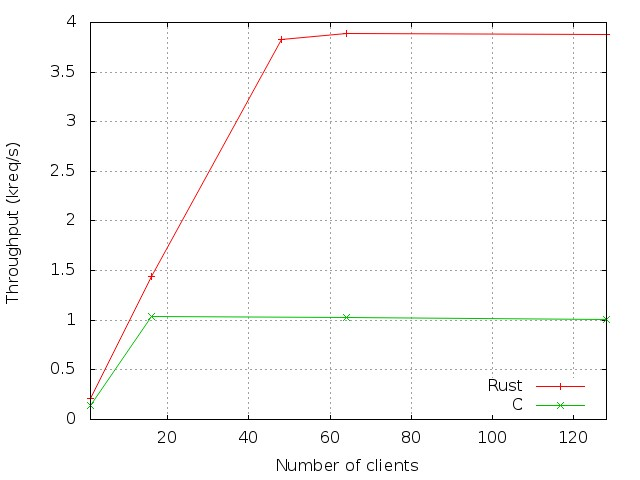
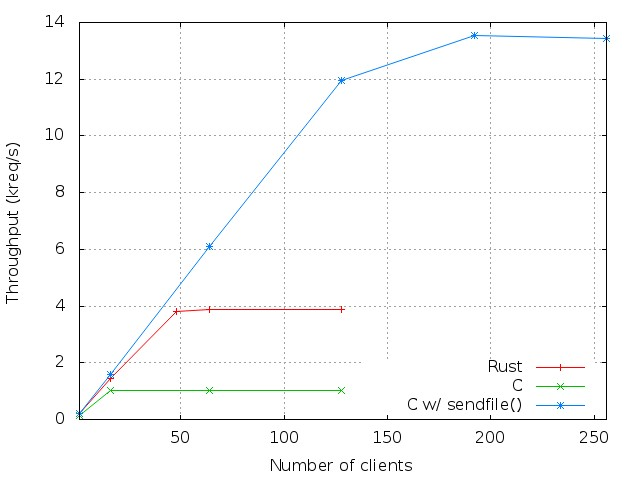
sendifle figure for 100k

diff --git a/evaluation/README.md b/evaluation/README.md
@@ -71,7 +71,7 @@ We observe that the performance of the Rust implementation is better than the C 
 We run one experiment where each thread of the pool of threads of the C implementation calls *accept()*. We notice the peak throughput remains the same.
 
 We run the Linux profiler, *perf*, on both servers.
-We observe that the C server spends 45% of its cycle in the kernel function *__copy_user_nocache*. This means it spends the majority of its time copying  We run an experiment where we replace the calls to read() the file and write() to the socket by a single call to the *sendfile()* system call. We observe an important performance gain: the throughput with 256 clients is 13.4kreq/s, instead of 1kreq/s for the base C implementation or 3.8kreq/s for the Rust implementation.
+We observe that the C server spends 45% of its cycle in the kernel function *__copy_user_nocache*. This means it spends the majority of its time copying  We run experiments where we replace the calls to read() the file and write() to the socket by a single call to the *sendfile()* system call. We observe an important performance gain: the throughput with 256 clients is 13.4kreq/s, instead of 1kreq/s for the base C implementation or 3.8kreq/s for the Rust implementation. Detailed results are shown in the above figure.
 
 Note that the hot spots of the Rust server are quite different: the time is mostly spent in creating/freeing objects. Here is the top 5 of the most costly functions.
 
@@ -93,4 +93,5 @@ Interestingly, the throughput of the Rust web server, in terms of requests per s
 Acknowledgements
 ----------------
 
+We are grateful to [KrahnacK](https://github.com/KrahnacK) for the insightful comments that helped improve this document.
 The experiments presented in this document were carried out using the Grid’5000 experimental testbed, being developed under the INRIA ALADDIN development action with support from CNRS, RENATER and several Universities as well as other funding bodies (see https://www.grid5000.fr).
